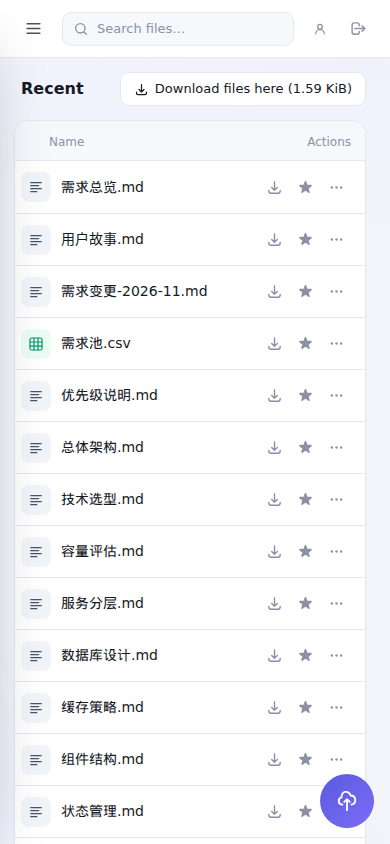
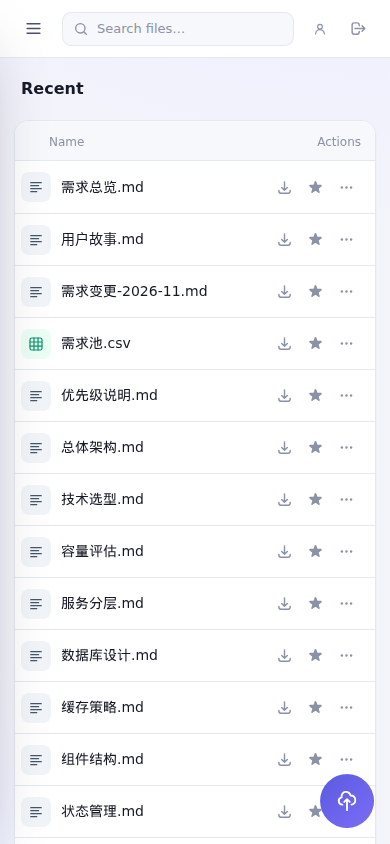
窄屏上传按钮改为聚合操作，点开菜单提供「上传文件 / 下载本目录文件」 窄屏工具栏移除下载全部按钮，省下的一行高度让给文件列表 同步 DESIGN 并重拍移动端文档截图

diff --git a/frontend/src/App.vue b/frontend/src/App.vue
@@ -75,6 +75,9 @@ const currentUser = ref<UserInfo | null>(null);
 const canWrite = computed(() => currentUser.value?.permissions.includes("write") ?? false);
 /** 窄屏抽屉：侧栏在移动端默认收起。 */
 const sidebarOpen = ref(false);
+/** 窄屏断点与样式里的 @media (max-width: 900px) 保持一致；窄屏的上传走 FAB 聚合菜单。 */
+const NARROW_QUERY = window.matchMedia("(max-width: 900px)");
+const isNarrow = ref(NARROW_QUERY.matches);
 
 /* ---------- 侧栏宽度（桌面端拖右缘调节） ---------- */
 
@@ -126,6 +129,8 @@ function startSidebarResize(event: PointerEvent): void {
 /** 窗口变窄时把侧栏夹回上限以内（宽度只存内存，不覆盖任何持久值）。 */
 function onWindowResize(): void {
   sidebarWidth.value = clampSidebarWidth(sidebarWidth.value);
+  isNarrow.value = NARROW_QUERY.matches;
+  if (!isNarrow.value) closeFabMenu();
 }
 
 /* ---------- 视图与派生数据 ---------- */
@@ -799,6 +804,46 @@ function pickFiles(): void {
 /** 上传目标：当前文件夹；非文件夹视图落到未分组。 */
 const uploadTarget = computed(() => currentPath.value);
 
+/**
+ * 窄屏把上传 / 下载全部聚合进右下角的悬浮按钮：点按钮弹出菜单，省掉工具栏一行。
+ * 宽屏仍然是普通的上传按钮，点一下直接选文件。
+ */
+const fabMenuOpen = ref(false);
+
+function closeFabMenu(): void {
+  fabMenuOpen.value = false;
+}
+
+function onFabClick(): void {
+  if (!isNarrow.value) {
+    pickFiles();
+    return;
+  }
+  fabMenuOpen.value = !fabMenuOpen.value;
+}
+
+function onFabUpload(): void {
+  closeFabMenu();
+  pickFiles();
+}
+
+function onFabDownloadAll(): void {
+  closeFabMenu();
+  void onDownloadAll();
+}
+
+/** 点菜单和悬浮按钮以外的地方收起菜单（与文件行菜单同一种处理方式）。 */
+function onFabMenuPointerDown(event: PointerEvent): void {
+  const target = event.target;
+  if (target instanceof Element && target.closest(".fab-menu, .top-actions .btn.primary")) return;
+  closeFabMenu();
+}
+
+watch(fabMenuOpen, (open) => {
+  if (open) window.addEventListener("pointerdown", onFabMenuPointerDown, true);
+  else window.removeEventListener("pointerdown", onFabMenuPointerDown, true);
+});
+
 /* ---------- 整页拖放 / 文件拖到文件夹 ---------- */
 
 const dropActive = ref(false);
@@ -940,8 +985,15 @@ onBeforeUnmount(() => {
       </label>
 
       <div class="top-actions">
-        <button v-if="canWrite" type="button" class="btn primary" @click="pickFiles">
-          <span class="btn-icon" v-html="ICONS.upload"></span>
+        <button
+          v-if="canWrite"
+          type="button"
+          class="btn primary"
+          :aria-label="t('upload.button')"
+          :aria-expanded="isNarrow ? fabMenuOpen : undefined"
+          @click="onFabClick"
+        >
+          <span class="btn-icon" v-html="isNarrow && fabMenuOpen ? ICONS.close : ICONS.upload"></span>
           {{ t("upload.button") }}
         </button>
         <LocaleSwitch class="lang" />
@@ -1138,6 +1190,33 @@ onBeforeUnmount(() => {
         </div>
       </main>
     </div>
+
+    <!-- 窄屏 FAB 聚合菜单：上传与下载全部收进同一个悬浮按钮 -->
+    <Teleport to="body">
+      <div
+        v-if="isNarrow && fabMenuOpen"
+        class="row-menu fab-menu"
+        role="menu"
+        :aria-label="t('action.upload-menu')"
+      >
+        <button type="button" class="row-menu-item" role="menuitem" @click="onFabUpload">
+          <span class="row-menu-icon" v-html="ICONS.upload"></span>
+          <span class="row-menu-label">{{ t("upload.button") }}</span>
+        </button>
+        <button
+          v-if="visibleFiles.length"
+          type="button"
+          class="row-menu-item"
+          role="menuitem"
+          @click="onFabDownloadAll"
+        >
+          <span class="row-menu-icon" v-html="ICONS.download"></span>
+          <span class="row-menu-label">
+            {{ t("action.download-group-size", { size: formatSize(pageFilesSize) }) }}
+          </span>
+        </button>
+      </div>
+    </Teleport>
 
     <!-- 文件夹菜单 -->
     <Teleport to="body">
@@ -1803,6 +1882,32 @@ onBeforeUnmount(() => {
 
   .crumb {
     max-width: 140px;
+  }
+
+  /* 「下载全部」收进了 FAB 聚合菜单，工具栏不再被下载按钮挤出一行 */
+  .toolbar-right .btn {
+    display: none;
+  }
+
+  /* FAB 聚合菜单：弹出在悬浮按钮上方 */
+  .fab-menu {
+    top: auto;
+    left: auto;
+    right: 16px;
+    bottom: calc(16px + env(safe-area-inset-bottom, 0px) + 54px + 10px);
+    z-index: 61;
+    width: min(280px, calc(100vw - 32px));
+  }
+
+  /* 触屏点击目标放大到 44px 上下 */
+  .fab-menu .row-menu-item {
+    padding: 12px 10px;
+    font-size: 14px;
+  }
+
+  .fab-menu .row-menu-icon:deep(svg) {
+    width: 18px;
+    height: 18px;
   }
 }
 </style>

diff --git a/frontend/src/i18n.ts b/frontend/src/i18n.ts
@@ -84,6 +84,7 @@ export type MessageKey =
   | "action.delete"
   | "action.move-group"
   | "action.more"
+  | "action.upload-menu"
   | "action.new-group"
   | "action.group-menu"
   | "action.create-subgroup"
@@ -223,6 +224,7 @@ const messages: Record<MessageKey, Message> = {
   "action.delete": { zh: "删除", en: "Delete" },
   "action.move-group": { zh: "移动到文件夹", en: "Move to folder" },
   "action.more": { zh: "更多操作", en: "More actions" },
+  "action.upload-menu": { zh: "上传与下载", en: "Upload and download" },
   "action.new-group": { zh: "新建文件夹", en: "New folder" },
   "action.group-menu": { zh: "文件夹操作", en: "Folder actions" },
   "action.create-subgroup": { zh: "创建子文件夹", en: "New sub-folder" },

diff --git a/DESIGN.md b/DESIGN.md
@@ -135,7 +135,8 @@ CREATE TABLE IF NOT EXISTS groups (
 
 - 桌面端是「顶栏 + 左侧文件夹树 + 右侧内容区表格 + 右下角上传队列」，顶栏左侧是搜索框、右侧是上传与
   当前账号（只读账号挂「只读」徽标），都常驻；窄屏把文件夹树收进抽屉（左上角菜单按钮打开），顶栏只留
-  搜索框、账号与退出，上传按钮改为右下角悬浮按钮，表格只保留名称与操作列。桌面端可拖动两栏边界调节文件夹树宽度（200px ～ 视口一半，
+  搜索框、账号与退出，上传与下载全部聚合到右下角悬浮按钮（点开在按钮上方弹出「上传文件 / 下载本目录文件」菜单），
+  表格只保留名称与操作列。桌面端可拖动两栏边界调节文件夹树宽度（200px ～ 视口一半，
   宽度只存本次会话，刷新后回到默认；窄屏隐藏分隔条）；侧栏与内容区的滚动条常驻槽位并落在内边距里，
   不压住列表行。
 - 新建文件夹不单设顶栏或工具栏按钮，统一走文件夹行的右键 / 「⋯」菜单（侧栏文件夹树底部保留一个新建入口）。
@@ -145,6 +146,7 @@ CREATE TABLE IF NOT EXISTS groups (
   （统计信息、重命名、新建子文件夹、删除）。
 - 内容区表格列为名称、大小、上传时间（`created_at`）、指纹（8 位短 SHA-256）、操作：子文件夹行在前（显示子树项数），
   文件行在后；移动端隐藏大小、时间、指纹三列，操作列收窄到只放下载 / 收藏 / 更多三个图标，宽度让给文件名，
+  工具栏里的「下载全部」收进悬浮按钮的聚合菜单，列表上方只留面包屑与文件夹「⋯」，不再为下载按钮多占一行，
   底部的拖拽上传提示在窄屏隐藏（移动端没有外部文件拖放）。
   文件行操作是「下载、复制分享链接、收藏、移动到文件夹、更多（24 小时分享链接 / 重命名 / 复制 curl / 删除）」，
   点文件名打开详情（含完整 SHA-256）。顶部面包屑逐级可点回上层。
